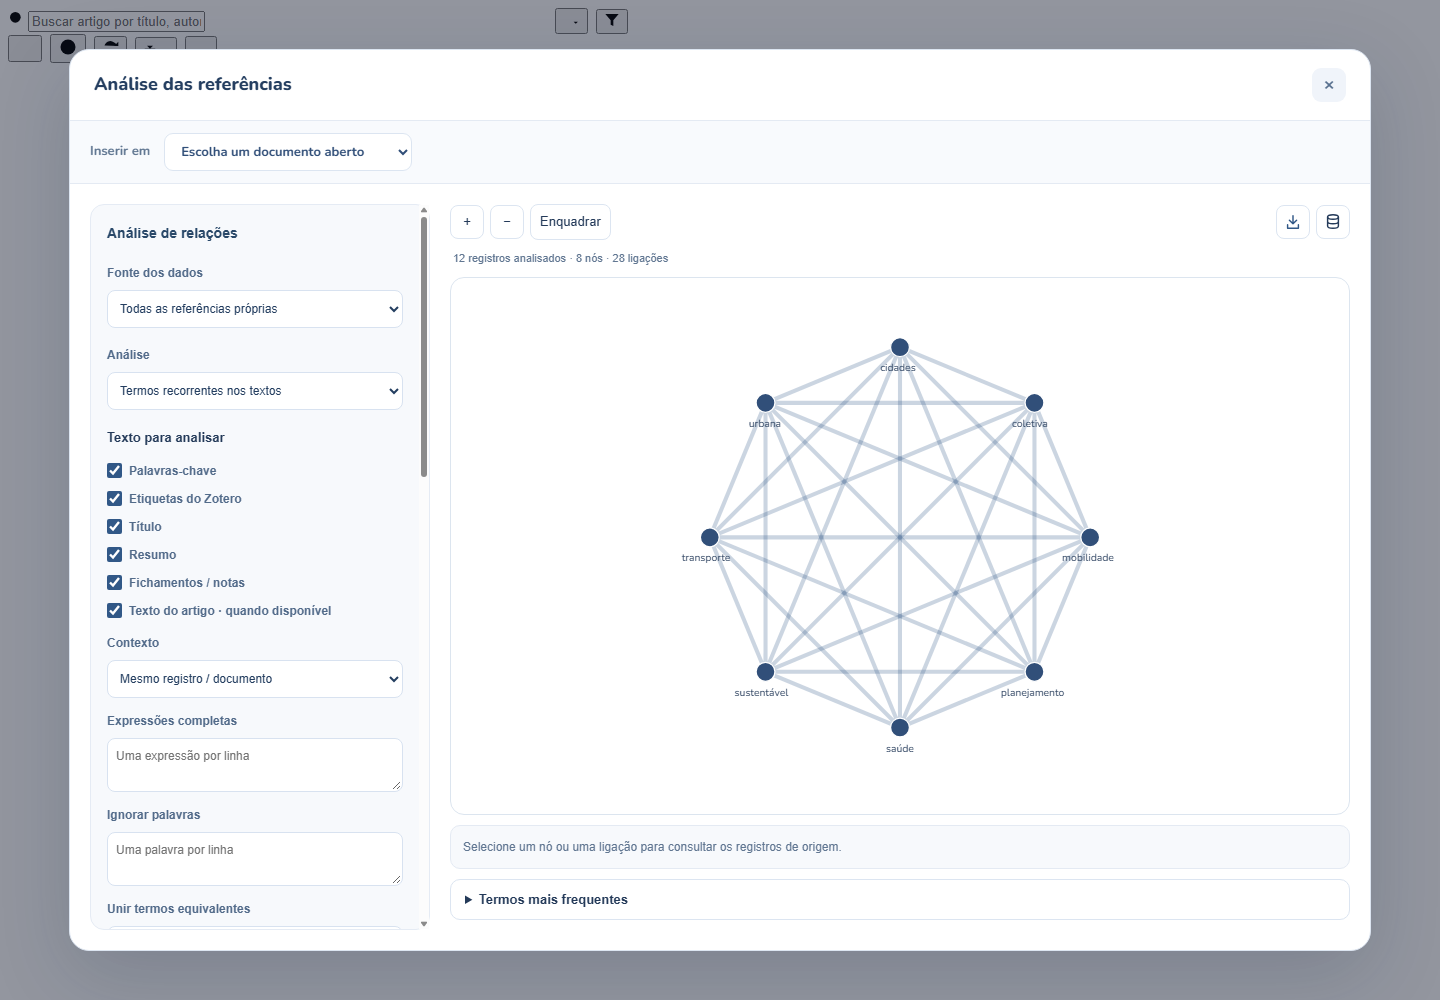
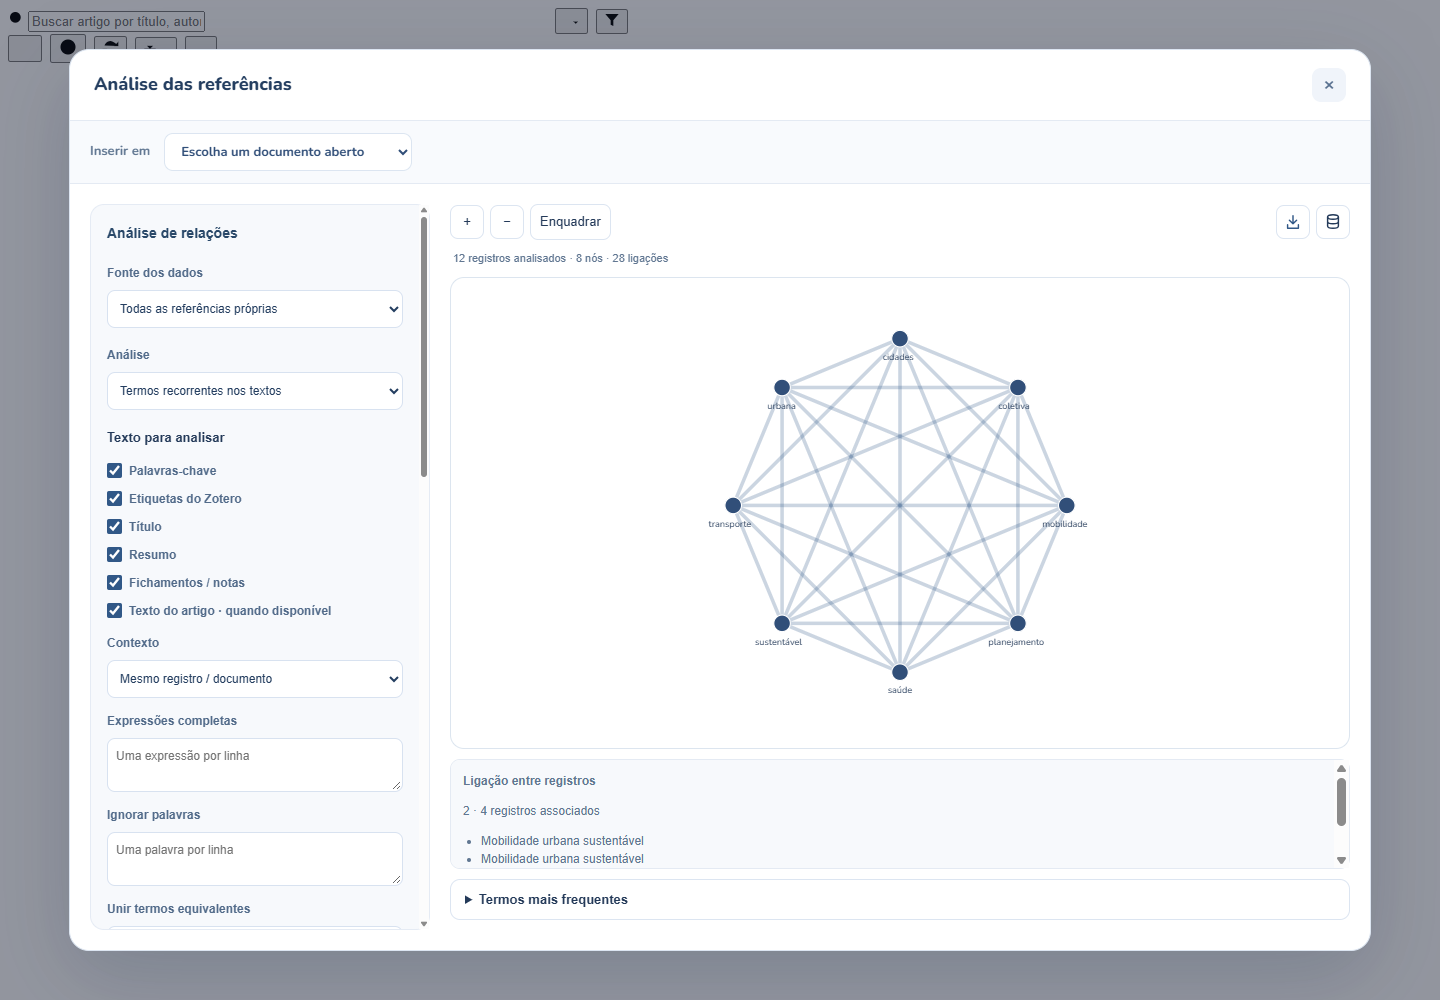
fix(relacoes): restaura selecao e adiciona fisica interativa da rede

Changed region(s): [[0.4688, 0.341, 0.7812, 0.744], [0.3125, 0.775, 0.5938, 0.868], [0.9062, 0.744, 0.9375, 0.837]]

diff --git a/src/relations/panel.js b/src/relations/panel.js
@@ -16,7 +16,7 @@ export function createRelationPanel(container,{sources=[],initial={},onSave,onIn
  if(!config.textFields.length)config.textFields=source.fields.filter(f=>f.text).map(f=>f.id);
  container.innerHTML=`<div class="relation-panel"><form class="rel-controls"><h3>${esc(title)}</h3><label>Fonte dos dados<select name="source">${opts(sources.map(s=>[s.id,s.label]),source.id)}</select></label><label>Análise<select name="mode">${opts([['fields','Relações entre campos'],['terms','Termos recorrentes nos textos']],config.mode)}</select></label><div data-rel-fields><strong>Variáveis · na ordem das etapas</strong><div data-rel-stages></div><button type="button" data-rel-action="stage-add">${plus} Variável</button><label>Medida<select name="measure"><option value="">Contagem de registros</option>${opts(source.fields.filter(f=>f.numeric).map(f=>[f.id,f.label]),config.measure)}</select></label><label>Contagem<select name="counting">${opts([['fractional','Dividir o peso entre combinações'],['full','Contar cada combinação']],config.counting)}</select></label></div><div data-rel-terms><strong>Texto para analisar</strong><div data-rel-text-fields></div><label>Contexto<select name="context">${opts([['document','Mesmo registro / documento'],['paragraph','Mesmo parágrafo']],config.context)}</select></label><label>Expressões completas<textarea name="phrases" rows="2" placeholder="Uma expressão por linha">${esc(config.phrases.join('\n'))}</textarea></label><label>Ignorar palavras<textarea name="ignoredTerms" rows="2" placeholder="Uma palavra por linha">${esc(config.ignoredTerms.join('\n'))}</textarea></label><label>Unir termos equivalentes<textarea name="synonyms" rows="2" placeholder="termo = forma preferida">${esc(Object.entries(config.synonyms).map(([a,b])=>a+' = '+b).join('\n'))}</textarea></label><small>Contagem por presença: repetir o termo no mesmo registro não aumenta o peso. Uma ligação indica ocorrência conjunta, não causalidade.</small></div><fieldset><legend>Filtrar</legend><label>Frequência mínima<input name="minimum" type="number" min="1" max="1000" value="${config.minimum}"></label><label>Força mínima da ligação<input name="minLink" type="number" min="0" step="any" value="${config.minLink}"></label><label>Campo do ano<select name="yearField"><option value="">Sem filtro temporal</option>${opts(source.fields.map(f=>[f.id,f.label]),config.yearField)}</select></label><div class="rel-date-range"><label>De<input name="startYear" type="number" placeholder="Ano" value="${config.startYear||''}"></label><label>Até<input name="endYear" type="number" placeholder="Ano" value="${config.endYear||''}"></label></div><label>Registros selecionados<select name="scope">${opts([['all','Todos desta fonte'],['selected','Selecionar registros']],config.selectedIds.length?'selected':'all')}</select></label><div data-rel-records></div></fieldset><fieldset><legend>Visualização</legend><label>Cor por<select name="colorField"><option value="">Comunidades automáticas</option>${opts(source.fields.map(f=>[f.id,f.label]),config.colorField)}</select></label><div class="rel-layouts">${RELATION_LAYOUTS.map(([id,label])=>`<button type="button" data-rel-layout="${id}" title="${esc(label)}" aria-label="${esc(label)}" aria-pressed="${id===style.layout}">${layoutIcon(id)}<span>${esc(label)}</span></button>`).join('')}</div><label><input name="labels" type="checkbox" ${style.labels?'checked':''}> Mostrar rótulos</label><label>Tamanho dos nós<input name="nodeScale" type="range" min=".5" max="2" step=".1" value="${style.nodeScale}"></label></fieldset><div class="rel-save-actions">${onSave?'<button type="button" data-rel-action="save">Salvar configuração</button>':''}${onInsert?'<button type="button" data-rel-action="insert">Inserir no documento</button>':''}${onSave||onInsert?`<label><input type="checkbox" name="linked" ${initial.linked===false?'':'checked'}> Manter vinculado aos dados</label>`:''}</div><p data-rel-error role="alert"></p></form><section class="rel-result"><div class="rel-view-tools" role="toolbar" aria-label="Controles do mapa"><button data-rel-action="zoom-in" type="button" aria-label="Aproximar">+</button><button data-rel-action="zoom-out" type="button" aria-label="Afastar">−</button><button data-rel-action="fit" type="button">Enquadrar</button><span></span>${downloadMenuMarkup(format=>`data-rel-action="${format}"`)}<button class="visual-icon-button" data-rel-action="json" type="button" title="Baixar dados e configuração" aria-label="Baixar dados e configuração">${databaseIcon}</button></div><p class="rel-summary" aria-live="polite"></p><div class="rel-viewport" tabindex="0" aria-label="Mapa de conexões; use os botões para ampliar"><div class="rel-drawing"></div></div><aside class="rel-inspect" aria-live="polite">Selecione um nó ou uma ligação para consultar os registros de origem.</aside><details class="rel-term-ranking" hidden><summary>Termos mais frequentes</summary><small>Número de registros em que cada termo aparece, contado uma vez por registro.</small><ol></ol></details><div class="rel-warnings"></div></section></div>`;
  const root=container.querySelector('.relation-panel'),form=root.querySelector('form'),value=name=>form.elements.namedItem(name)?.value||'',lines=name=>value(name).split(/[\n;]+/).map(s=>s.trim()).filter(Boolean),error=message=>root.querySelector('[data-rel-error]').textContent=message||'';
- let records=source.records();const nodeDrag=installRelationDrag(root.querySelector('.rel-viewport'),root.querySelector('.rel-drawing'));
+ let records=source.records();const nodeDrag=installRelationDrag(root.querySelector('.rel-viewport'),root.querySelector('.rel-drawing'),{elastic:()=>['force','clusters'].includes(style.layout)});
  function fieldsUI(){const fields=source.fields.map(f=>[f.id,f.label]);root.querySelector('[data-rel-stages]').innerHTML=config.stages.map(id=>`<div class="rel-stage"><select aria-label="Variável da etapa">${opts(fields,id)}</select><button type="button" data-rel-action="stage-up" aria-label="Mover variável para cima">↑</button><button type="button" data-rel-action="stage-remove" aria-label="Remover variável">${close}</button></div>`).join('');root.querySelector('[data-rel-text-fields]').innerHTML=source.fields.filter(f=>f.text).map(f=>`<label><input type="checkbox" data-rel-text-field="${esc(f.id)}" ${config.textFields.includes(f.id)?'checked':''}> ${esc(f.label)}</label>`).join('');root.querySelector('[data-rel-records]').innerHTML=records.slice(0,2000).map(r=>`<label><input type="checkbox" data-rel-record="${esc(r.id)}" ${config.selectedIds.includes(String(r.id))?'checked':''}> ${esc(r.label||r.id)}</label>`).join('');}
  function read(){const synonyms=Object.fromEntries(lines('synonyms').map(s=>{const i=s.indexOf('=');return i>0?[s.slice(0,i).trim(),s.slice(i+1).trim()]:['',''];}).filter(([a,b])=>a&&b));config=normalizeAnalysis({mode:value('mode'),colorField:value('colorField'),stages:[...root.querySelectorAll('[data-rel-stages] select')].map(s=>s.value),textFields:[...root.querySelectorAll('[data-rel-text-field]:checked')].map(e=>e.dataset.relTextField),context:value('context'),counting:value('counting'),measure:value('measure'),minimum:value('minimum'),minLink:value('minLink'),phrases:lines('phrases'),ignoredTerms:lines('ignoredTerms'),synonyms,yearField:value('yearField'),startYear:value('startYear'),endYear:value('endYear'),selectedIds:value('scope')==='selected'?[...root.querySelectorAll('[data-rel-record]:checked')].map(e=>e.dataset.relRecord):[]});style={...style,labels:form.elements.namedItem('labels').checked,nodeScale:Number(value('nodeScale'))};return {sourceId:source.id,config,style,linked:form.elements.namedItem('linked')?.checked??initial.linked!==false};}
  const transform=()=>{root.querySelector('.rel-drawing').style.transform=`translate(${pan.x}px,${pan.y}px) scale(${zoom})`;};
@@ -27,8 +27,8 @@ export function createRelationPanel(container,{sources=[],initial={},onSave,onIn
   if(action==='zoom-in'||action==='zoom-out'){zoom=Math.min(5,Math.max(.3,zoom*(action==='zoom-in'?1.25:.8)));transform();return;}if(action==='fit'){zoom=1;pan={x:0,y:0};transform();return;}
   try{if(['save','insert','svg','png','json'].includes(action)){clearTimeout(timer);update();if(root.querySelector('[data-rel-error]').textContent)return;button.closest('details')?.removeAttribute('open');}if(action==='save'||action==='insert'){if(action==='save')await onSave?.(read(),graph);else await onInsert?.({...read(),graph,svg:root.querySelector('.rel-drawing svg').outerHTML,linked:form.elements.namedItem('linked').checked});}else if(action==='svg'||action==='png')await downloadSvg(root.querySelector('.rel-drawing svg'),title,action);else if(action==='json')downloadBlob(new Blob([JSON.stringify({configuration:read(),graph},null,2)],{type:'application/json'}),'analise-relacoes.json');}catch(e){error(e.message);}
  });
- const inspect=event=>{const target=event.target.closest('[data-relation-node],[data-relation-edge]');if(!target||!graph)return;const id=target.dataset.relationNode,item=id?graph.nodes.find(n=>n.id===id):graph.links.find(l=>JSON.stringify([l.source,l.target])===target.dataset.relationEdge);if(!item)return;root.querySelector('.rel-inspect').innerHTML=`<strong>${esc(item.label||'Ligação entre registros')}</strong><p>${item.value} · ${item.recordCount??item.value} registros associados</p><ul>${item.records.map(id=>`<li>${esc(records.find(r=>String(r.id)===id)?.label||id)}</li>`).join('')}</ul>${item.records.length<(item.recordCount??item.value)?'<small>Exibindo os primeiros 100 registros.</small>':''}`;};root.querySelector('.rel-drawing').addEventListener('click',inspect);root.querySelector('.rel-drawing').addEventListener('keydown',event=>{if(event.key==='Enter'||event.key===' ')inspect(event);});
- let drag=null;const viewport=root.querySelector('.rel-viewport');viewport.addEventListener('pointerdown',e=>{if(e.target.closest('[data-relation-node]'))return;drag={x:e.clientX-pan.x,y:e.clientY-pan.y};viewport.setPointerCapture(e.pointerId);});viewport.addEventListener('pointermove',e=>{if(drag){pan={x:e.clientX-drag.x,y:e.clientY-drag.y};transform();}});viewport.addEventListener('pointerup',()=>{drag=null;});viewport.addEventListener('pointercancel',()=>{drag=null;});
+ const inspect=event=>{const target=event.target.closest('[data-relation-node],[data-relation-edge]');if(!target||!graph)return;const id=target.dataset.relationNode,item=id?graph.nodes.find(n=>n.id===id):graph.links.find(l=>JSON.stringify([l.source,l.target])===target.dataset.relationEdge);if(!item)return;for(const n of root.querySelectorAll('[data-relation-node],[data-relation-edge]'))n.classList.toggle('is-selected',n===target);root.querySelector('.rel-inspect').innerHTML=`<strong>${esc(item.label||'Ligação entre registros')}</strong><p>${item.value} · ${item.recordCount??item.value} registros associados</p><ul>${item.records.map(id=>`<li>${esc(records.find(r=>String(r.id)===id)?.label||id)}</li>`).join('')}</ul>${item.records.length<(item.recordCount??item.value)?'<small>Exibindo os primeiros 100 registros.</small>':''}`;};root.querySelector('.rel-drawing').addEventListener('click',inspect);root.querySelector('.rel-drawing').addEventListener('relation-select',inspect);root.querySelector('.rel-drawing').addEventListener('keydown',event=>{if(event.key==='Enter'||event.key===' '){event.preventDefault();inspect(event);}});
+ let drag=null;const viewport=root.querySelector('.rel-viewport');viewport.addEventListener('pointerdown',e=>{if(e.button!==0||e.target.closest('[data-relation-node],[data-relation-edge]'))return;drag={x:e.clientX-pan.x,y:e.clientY-pan.y};viewport.setPointerCapture(e.pointerId);});viewport.addEventListener('pointermove',e=>{if(drag){pan={x:e.clientX-drag.x,y:e.clientY-drag.y};transform();}});viewport.addEventListener('pointerup',()=>{drag=null;});viewport.addEventListener('pointercancel',()=>{drag=null;});
  const wheel=e=>{e.preventDefault();const rect=viewport.getBoundingClientRect(),old=zoom;const delta=e.deltaY*(e.deltaMode===1?16:e.deltaMode===2?rect.height:1);zoom=Math.min(5,Math.max(.3,zoom*Math.exp(-delta*.002)));const ratio=zoom/old;pan={x:pan.x+(e.clientX-rect.left-rect.width/2-pan.x)*(1-ratio),y:pan.y+(e.clientY-rect.top-rect.height/2-pan.y)*(1-ratio)};transform();};viewport.addEventListener('wheel',wheel,{passive:false});
  return {getGraph:()=>graph,getConfiguration:read,destroy(){clearTimeout(timer);nodeDrag.destroy();viewport.removeEventListener('wheel',wheel);container.replaceChildren();}};
 }

diff --git a/src/relations/drag.js b/src/relations/drag.js
@@ -1,20 +1,51 @@
-// Move SVG nodes and their incident links without rerunning the graph layout.
-export function installRelationDrag(viewport,drawing){
- const offsets=new Map();let active=null,moved=false;
+import {stepNetwork} from './physics.js';
+// Pointer selection and exploratory physics share one SVG geometry cache.
+export function installRelationDrag(viewport,drawing,{elastic=()=>false}={}){
+ const offsets=new Map();let active=null,moved=false,frame=0,heat=0,geometry=null,simulation=[];
  const point=e=>new DOMPoint(e.clientX,e.clientY).matrixTransform(drawing.querySelector('svg').getScreenCTM().inverse());
- function apply(){
-  for(const node of drawing.querySelectorAll('[data-relation-node]')){const o=offsets.get(node.dataset.relationNode)||{x:0,y:0};node.setAttribute('transform',`translate(${o.x} ${o.y})`);}
-  for(const edge of drawing.querySelectorAll('[data-relation-edge]')){
-   const [a,b]=JSON.parse(edge.dataset.relationEdge),start=offsets.get(a)||{x:0,y:0},end=offsets.get(b)||{x:0,y:0};
-   const original=edge.dataset.originalPath||(edge.dataset.originalPath=edge.getAttribute('d'));
-   const numbers=original.match(/-?\d*\.?\d+(?:e[-+]?\d+)?/gi)||[];let index=0;const pairs=numbers.length/2;
-   edge.setAttribute('d',original.replace(/-?\d*\.?\d+(?:e[-+]?\d+)?/gi,value=>{const i=index++,t=Math.floor(i/2)/(pairs-1),axis=i%2?'y':'x';return Number(value)+start[axis]*(1-t)+end[axis]*t;}));
-  }
+ function stop(){cancelAnimationFrame(frame);frame=0;}
+ function cache(){
+  const svg=drawing.querySelector('svg');if(geometry?.svg===svg)return geometry;
+  stop();simulation=[];
+  const nodes=[...drawing.querySelectorAll('[data-relation-node]')].map(el=>{const c=el.querySelector('circle'),r=el.querySelector('rect');return {el,id:el.dataset.relationNode,x:Number(c?.getAttribute('cx')||r?.getAttribute('x')||0),y:Number(c?.getAttribute('cy')||r?.getAttribute('y')||0)};});
+  const edges=[...drawing.querySelectorAll('[data-relation-edge]')].map(el=>{const [source,target]=JSON.parse(el.dataset.relationEdge),path=el.getAttribute('d'),numbers=path.match(/-?\d*\.?\d+(?:e[-+]?\d+)?/gi)||[];return {el,source,target,path,pairs:numbers.length/2};});
+  geometry={svg,nodes,edges};return geometry;
  }
- const down=e=>{const node=e.target.closest('[data-relation-node]');if(!node||e.button!==0)return;const p=point(e),id=node.dataset.relationNode;active={id,p,offset:offsets.get(id)||{x:0,y:0},pointer:e.pointerId};moved=false;viewport.setPointerCapture(e.pointerId);e.preventDefault();};
- const move=e=>{if(!active||active.pointer!==e.pointerId)return;const p=point(e),dx=p.x-active.p.x,dy=p.y-active.p.y;if(Math.hypot(dx,dy)>3)moved=true;offsets.set(active.id,{x:active.offset.x+dx,y:active.offset.y+dy});apply();};
- const up=e=>{if(active?.pointer===e.pointerId){active=null;if(viewport.hasPointerCapture(e.pointerId))viewport.releasePointerCapture(e.pointerId);}};
+ function apply(){
+  const g=cache();
+  for(const n of g.nodes){const o=offsets.get(n.id)||{x:0,y:0};n.el.setAttribute('transform',`translate(${o.x} ${o.y})`);}
+  for(const edge of g.edges){const a=offsets.get(edge.source)||{x:0,y:0},b=offsets.get(edge.target)||{x:0,y:0};let index=0;edge.el.setAttribute('d',edge.path.replace(/-?\d*\.?\d+(?:e[-+]?\d+)?/gi,value=>{const i=index++,t=Math.floor(i/2)/(edge.pairs-1),axis=i%2?'y':'x';return Number(value)+a[axis]*(1-t)+b[axis]*t;}));}
+ }
+ function tick(){
+  frame=0;if(!geometry?.svg?.isConnected)return;
+  stepNetwork(simulation,geometry.edges,active?.id,heat);
+  for(const n of simulation){const base=n.base;offsets.set(n.id,{x:n.x-base.x,y:n.y-base.y});}
+  apply();heat*=.97;if(active||heat>.02)frame=requestAnimationFrame(tick);
+ }
+ function wake(){
+  const g=cache();if(!elastic()||!g.nodes.every(n=>n.el.querySelector('circle')))return;
+  simulation=g.nodes.map(n=>{const o=offsets.get(n.id)||{x:0,y:0};return {id:n.id,x:n.x+o.x,y:n.y+o.y,base:n,vx:0,vy:0};});
+  heat=1;if(!frame)frame=requestAnimationFrame(tick);
+ }
+ function down(e){
+  const node=e.target.closest('[data-relation-node]');if(!node||e.button!==0)return;
+  const p=point(e),id=node.dataset.relationNode;active={id,node,p,offset:offsets.get(id)||{x:0,y:0},pointer:e.pointerId};moved=false;viewport.setPointerCapture(e.pointerId);e.preventDefault();
+ }
+ function move(e){
+  if(!active||active.pointer!==e.pointerId)return;
+  const p=point(e),dx=p.x-active.p.x,dy=p.y-active.p.y;if(!moved&&Math.hypot(dx,dy)<=3)return;
+  if(!moved){moved=true;wake();}
+  const o={x:active.offset.x+dx,y:active.offset.y+dy};offsets.set(active.id,o);
+  const n=simulation.find(n=>n.id===active.id);if(n){n.x=n.base.x+o.x;n.y=n.base.y+o.y;heat=1;}
+  apply();
+ }
+ function up(e){
+  if(active?.pointer!==e.pointerId)return;
+  const selection=active.node;active=null;
+  if(viewport.hasPointerCapture(e.pointerId))viewport.releasePointerCapture(e.pointerId);
+  if(!moved&&e.type!=='pointercancel')selection.dispatchEvent(new CustomEvent('relation-select',{bubbles:true}));
+ }
  const click=e=>{if(moved){e.stopImmediatePropagation();moved=false;}};
  viewport.addEventListener('pointerdown',down);viewport.addEventListener('pointermove',move);viewport.addEventListener('pointerup',up);viewport.addEventListener('pointercancel',up);viewport.addEventListener('click',click,true);
- return {apply,reset(){offsets.clear();apply();},destroy(){viewport.removeEventListener('pointerdown',down);viewport.removeEventListener('pointermove',move);viewport.removeEventListener('pointerup',up);viewport.removeEventListener('pointercancel',up);viewport.removeEventListener('click',click,true);}};
+ return {apply,reset(){stop();offsets.clear();simulation=[];apply();},destroy(){stop();viewport.removeEventListener('pointerdown',down);viewport.removeEventListener('pointermove',move);viewport.removeEventListener('pointerup',up);viewport.removeEventListener('pointercancel',up);viewport.removeEventListener('click',click,true);}};
 }

diff --git a/tests/relacoes_documento.test.js b/tests/relacoes_documento.test.js
@@ -9,6 +9,8 @@ import {normalizeRelationStyle} from '../src/relations/render.js';
 import {aoEditarBiblioteca,definirArtigos,reiniciar} from '../src/core/athenes_biblioteca_artigos.js';
 const refs=[{id:'a',titulo:'Artigo A',autores:[{prenome:'Ana',sobrenome:'Silva'}],tags:[{tag:'Habitação'}],ano:2024,fichamento:{notasPagina:{1:[{texto:'Texto de anotação'}]}}},{id:'b',titulo:'Artigo B',autores:['Bruno'],palavrasChave:['Saúde'],ano:2025}];
 test('palavras-chave e etiquetas têm campos próprios e metadados Zotero são preservados',()=>{
+ const [imported]=registrosReferencias([{palavrasChave:['Zotero','Saúde'],tags:[{tag:' zotero '},{tag:'Cidade'}]}]);
+ assert.deepEqual(imported.fields.theme,['Saúde','Cidade']);assert.deepEqual(imported.fields.keywords,['Saúde']);assert.deepEqual(imported.fields.tags,['Cidade']);
  const [r]=registrosReferencias([{palavrasChave:[],tags:[{tag:'Saúde'}],itemTypeZotero:'journalArticle',camposZotero:{publisher:'Editora A',language:'pt',DOI:'10.1/exemplo'}}]);
  assert.deepEqual(r.fields.theme,['Saúde']);assert.deepEqual(r.fields.tags,['Saúde']);assert.deepEqual(r.fields.keywords,[]);
  assert.equal(r.fields.type,'journalArticle');assert.equal(r.fields.publisher,'Editora A');assert.equal(r.fields.language,'pt');assert.equal(r.fields.doi,'10.1/exemplo');

diff --git a/src/relations/physics.js b/src/relations/physics.js
@@ -1,0 +1,11 @@
+// Bounded local spring/repulsion simulation. No workers or external dependency.
+export function stepNetwork(nodes,links,pinned,heat=1){
+ const byId=new Map(nodes.map(n=>[n.id,n]));
+ for(const n of nodes){n.vx=(n.vx||0)*.72;n.vy=(n.vy||0)*.72;}
+ for(let i=0;i<nodes.length;i++)for(let j=i+1;j<nodes.length;j++){
+  const a=nodes[i],b=nodes[j],dx=b.x-a.x||.1,dy=b.y-a.y||.1,d=Math.max(6,Math.hypot(dx,dy)),force=Math.min(3,1800/(d*d));
+  a.vx-=dx/d*force;a.vy-=dy/d*force;b.vx+=dx/d*force;b.vy+=dy/d*force;
+ }
+ for(const link of links){const a=byId.get(link.source),b=byId.get(link.target);if(!a||!b)continue;const dx=b.x-a.x,dy=b.y-a.y,d=Math.max(1,Math.hypot(dx,dy)),force=(d-85)*.008; a.vx+=dx/d*force;a.vy+=dy/d*force;b.vx-=dx/d*force;b.vy-=dy/d*force;}
+ for(const n of nodes){if(n.id===pinned){n.vx=n.vy=0;continue;}n.vx+=(460-n.x)*.0008;n.vy+=(300-n.y)*.0008;n.x=Math.max(30,Math.min(890,n.x+Math.max(-7,Math.min(7,n.vx))*heat));n.y=Math.max(30,Math.min(580,n.y+Math.max(-7,Math.min(7,n.vy))*heat));}
+}

diff --git a/src/core/athenes_relacoes.js b/src/core/athenes_relacoes.js
@@ -4,7 +4,7 @@ import {renderRelations,normalizeRelationStyle} from '../relations/render.js';
 import {criarNovoBloco} from './athenes_documento.js';
 import {artigoEstaNaPasta} from './athenes_zotero_pastas.js';
 const plain=s=>String(s??'').replace(/<br\s*\/?\s*>/gi,'\n').replace(/<\/(?:p|div)>/gi,'\n\n').replace(/<[^>]*>/g,' ').replace(/&nbsp;/g,' ').replace(/&amp;/g,'&');
-const terms=v=>list(v).flatMap(t=>typeof t==='string'?t.split(/[;\n]+/):[t.tag||t.name||'']).map(t=>t.trim()).filter(Boolean);
+const terms=v=>list(v).flatMap(t=>typeof t==='string'?t.split(/[;\n]+/):[t.tag||t.name||'']).map(t=>t.trim()).filter(t=>t&&t.toLowerCase()!=='zotero');
 const list=v=>Array.isArray(v)?v:v?[v]:[];
 const name=a=>typeof a==='string'?a:[a.prenome||a.firstName,a.sobrenome||a.lastName||a.name].filter(Boolean).join(' ');
 export const podeEditarRelacoes=doc=>!!doc&&!['leitura','comentario'].includes(doc.permissao)&&(!(doc.compartilhadoComigo||doc.proprietarioExterno)||['edicao','admin','dono'].includes(doc.permissao));

diff --git a/tests/relation_physics.test.js b/tests/relation_physics.test.js
@@ -1,0 +1,13 @@
+import test from 'node:test';
+import assert from 'node:assert/strict';
+import {stepNetwork} from '../src/relations/physics.js';
+test('repulsão afasta nós próximos e a mola atrai vizinhos distantes',()=>{
+ const close=[{id:'a',x:450,y:300},{id:'b',x:460,y:300}];stepNetwork(close,[]);assert.ok(close[1].x-close[0].x>10);
+ const linked=[{id:'a',x:100,y:300},{id:'b',x:800,y:300}];stepNetwork(linked,[{source:'a',target:'b'}]);assert.ok(linked[1].x-linked[0].x<700);
+});
+test('o nó arrastado fica preso ao cursor e a simulação permanece finita',()=>{
+ const nodes=[{id:'a',x:450,y:300},{id:'b',x:450,y:300}];
+ for(let i=0;i<200;i++)stepNetwork(nodes,[{source:'a',target:'b'}],'a');
+ assert.equal(nodes[0].x,450);assert.equal(nodes[0].y,300);
+ assert.ok(nodes.every(n=>Number.isFinite(n.x)&&Number.isFinite(n.y)&&n.x>=30&&n.x<=890));
+});

diff --git a/src/relations/panel.css b/src/relations/panel.css
@@ -41,3 +41,6 @@
 @media(max-width:850px){.relation-panel{grid-template-columns:1fr}.ath-relations-modal .relation-panel{grid-template-rows:minmax(160px,35%) minmax(0,1fr)}.ath-relations-modal .rel-viewport{flex-basis:160px;min-height:160px}}
 
 .ath-relations-modal .rel-controls input[type=checkbox]{min-height:0;width:15px;height:15px;margin:0;accent-color:#315887}.ath-relations-modal [data-rel-text-fields]{display:grid;gap:10px}
+.relation-map-svg [data-relation-node].is-selected circle,.relation-map-svg [data-relation-node].is-selected rect{stroke:#163c70;stroke-width:3}
+.relation-map-svg [data-relation-edge]{cursor:pointer;pointer-events:stroke}
+.relation-map-svg [data-relation-edge].is-selected{opacity:.85;stroke:#163c70}
